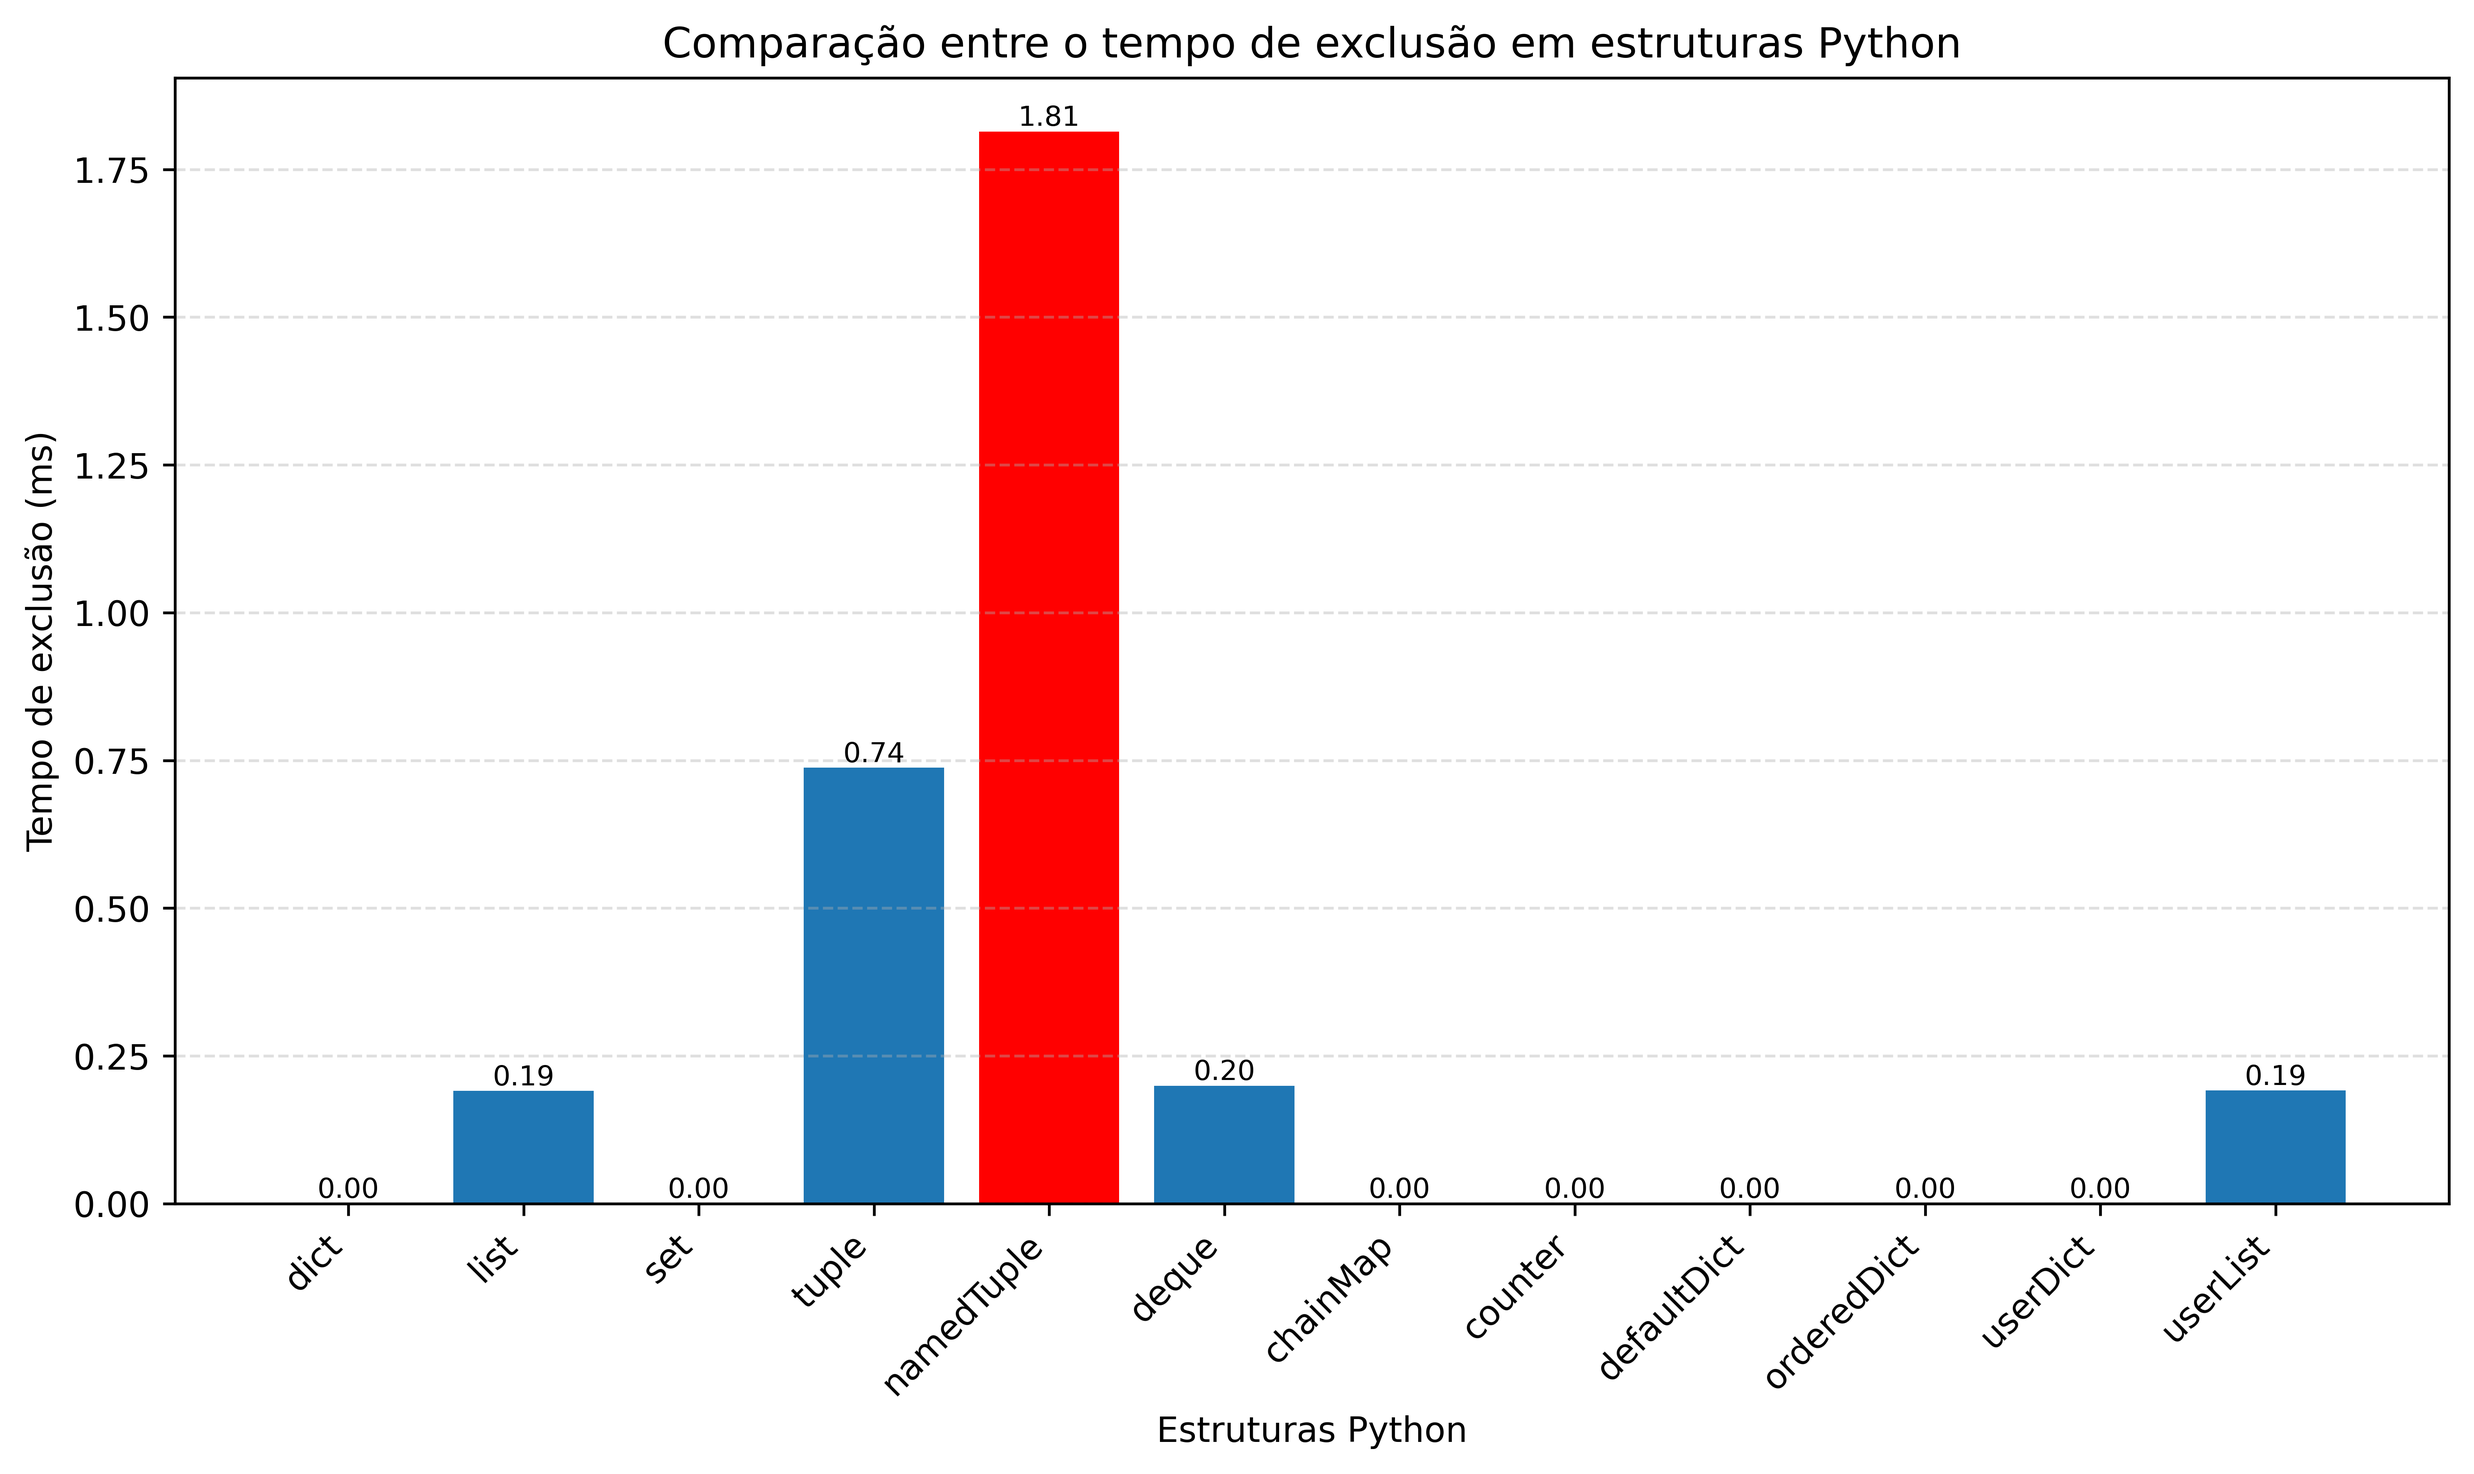
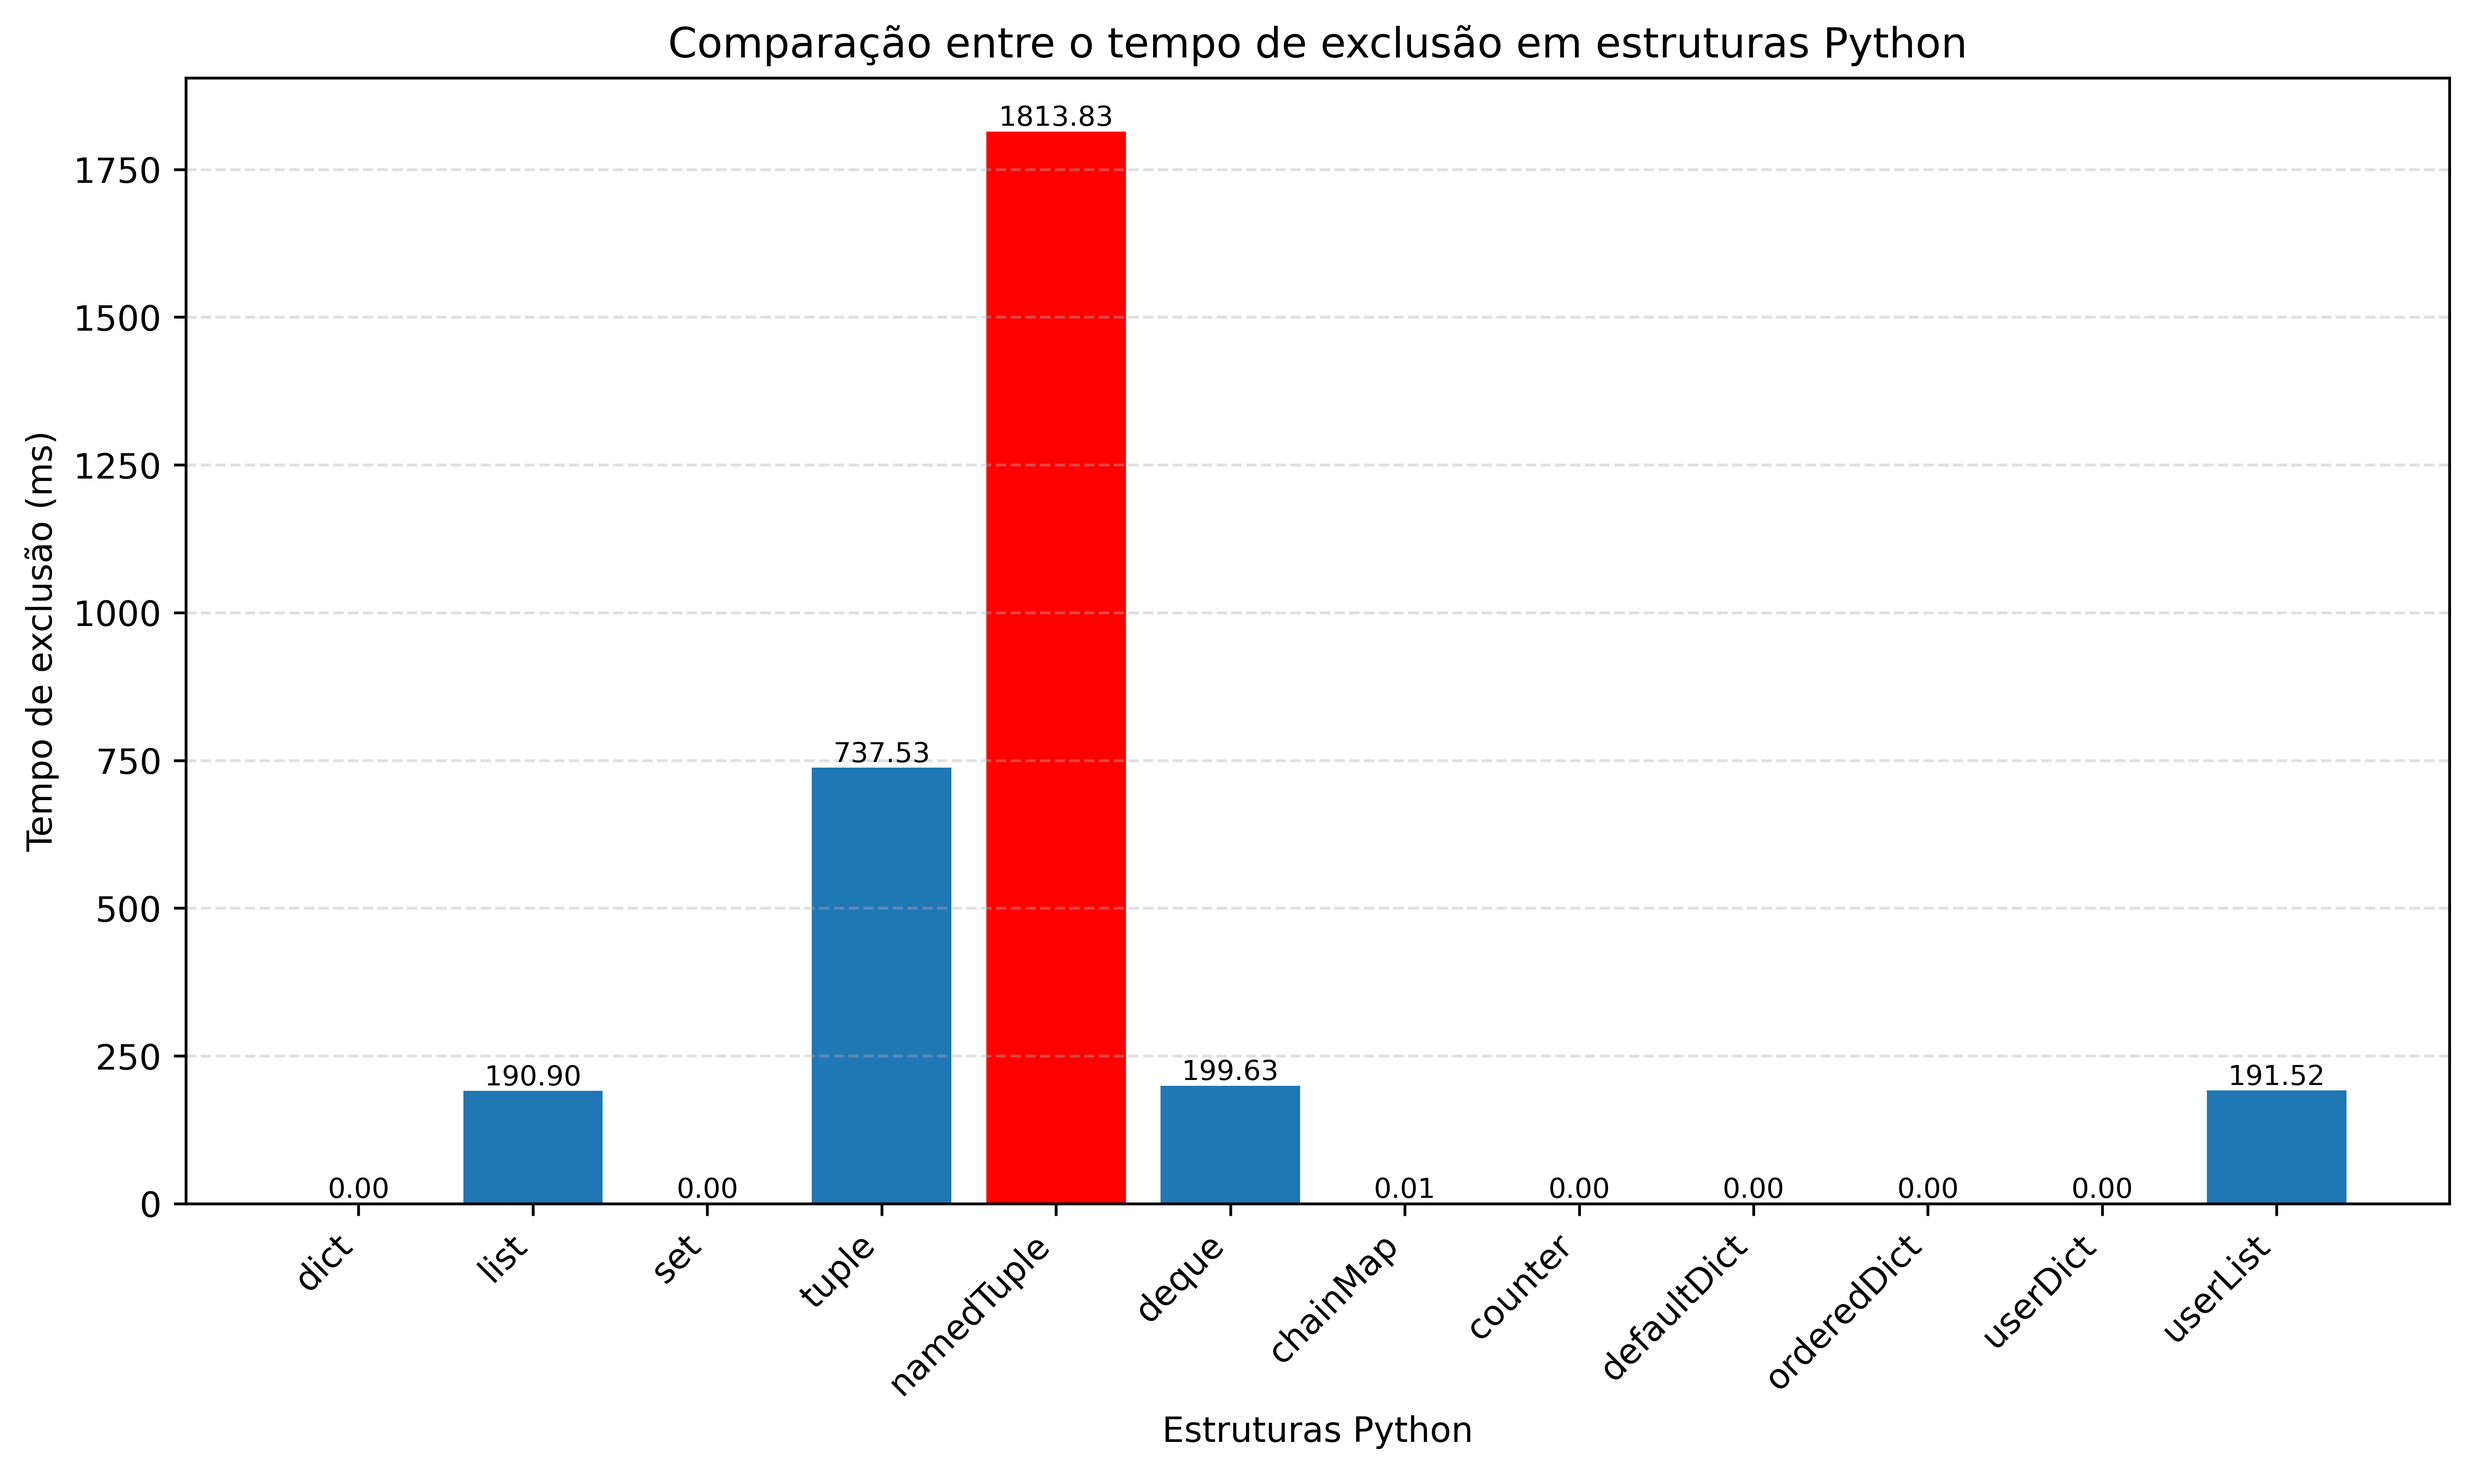
Atualizando os gráficos.

diff --git a/src/generatesGraphs/generatesBarChart.py b/src/generatesGraphs/generatesBarChart.py
@@ -12,9 +12,9 @@ def barChart(names: list[str], times: list[float]):
 
     # Tamanho do gráfico
     fig, axis = pyplot.subplots(figsize=(10, 6))
-    axis.set_title("Comparação entre o tempo de exclusão em estruturas Python") # Titulo do grafico 
+    axis.set_title("Comparação entre o tempo de consulta em estruturas Python") # Titulo do grafico 
     axis.set_xlabel("Estruturas Python") # label para o eixo X
-    axis.set_ylabel("Tempo de exclusão (ms)") # label para o eixo y
+    axis.set_ylabel("Tempo de consulta (ms)") # label para o eixo y
 
     axis.bar(names, times, color=colors) # Gera as
 
@@ -29,5 +29,5 @@ def barChart(names: list[str], times: list[float]):
     axis.grid(axis="y", linestyle="--", alpha=0.4)
 
     pyplot.tight_layout()
-    #pyplot.savefig("BarChartDelete.png", dpi=600, bbox_inches="tight")
+    #pyplot.savefig("BarChartGet.png", dpi=600, bbox_inches="tight")
     pyplot.show()
